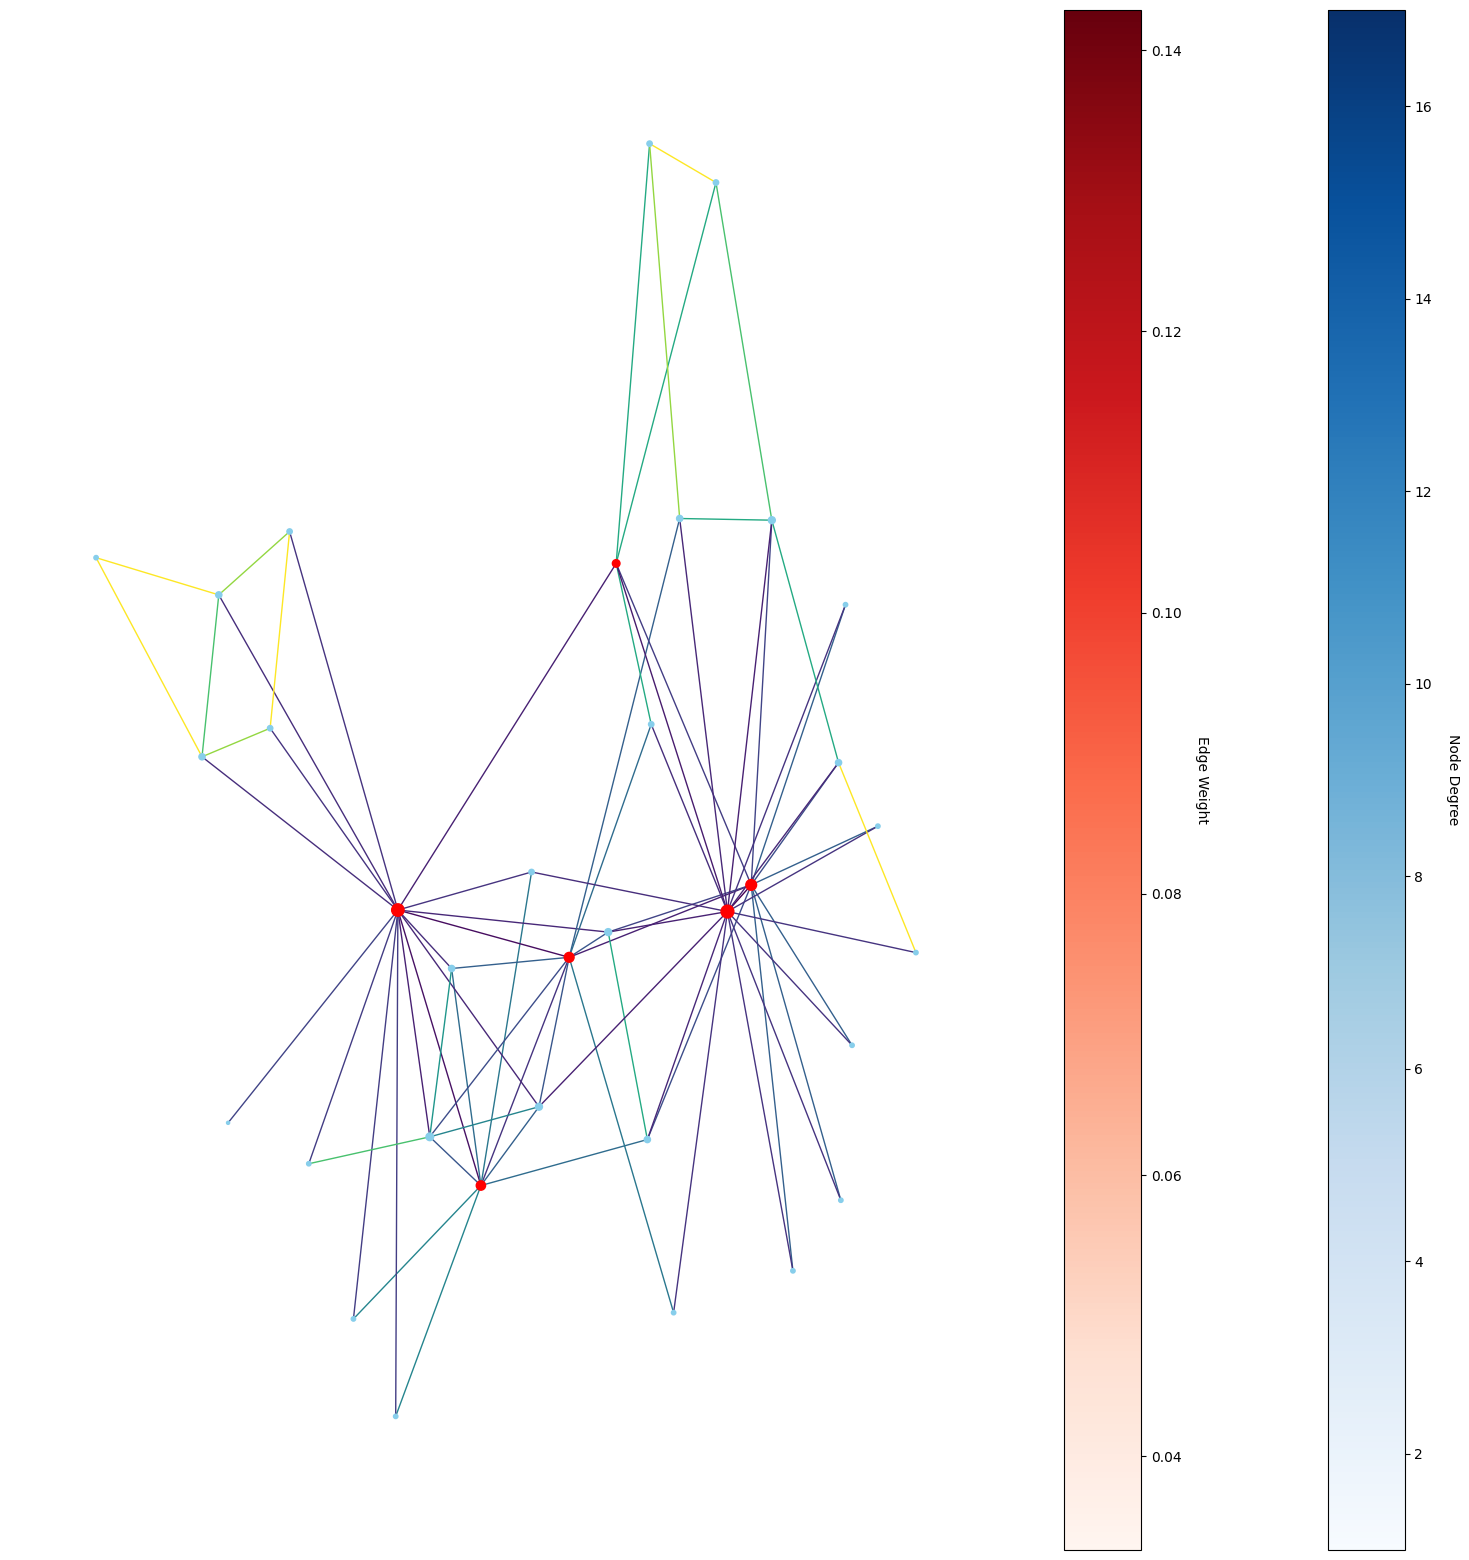
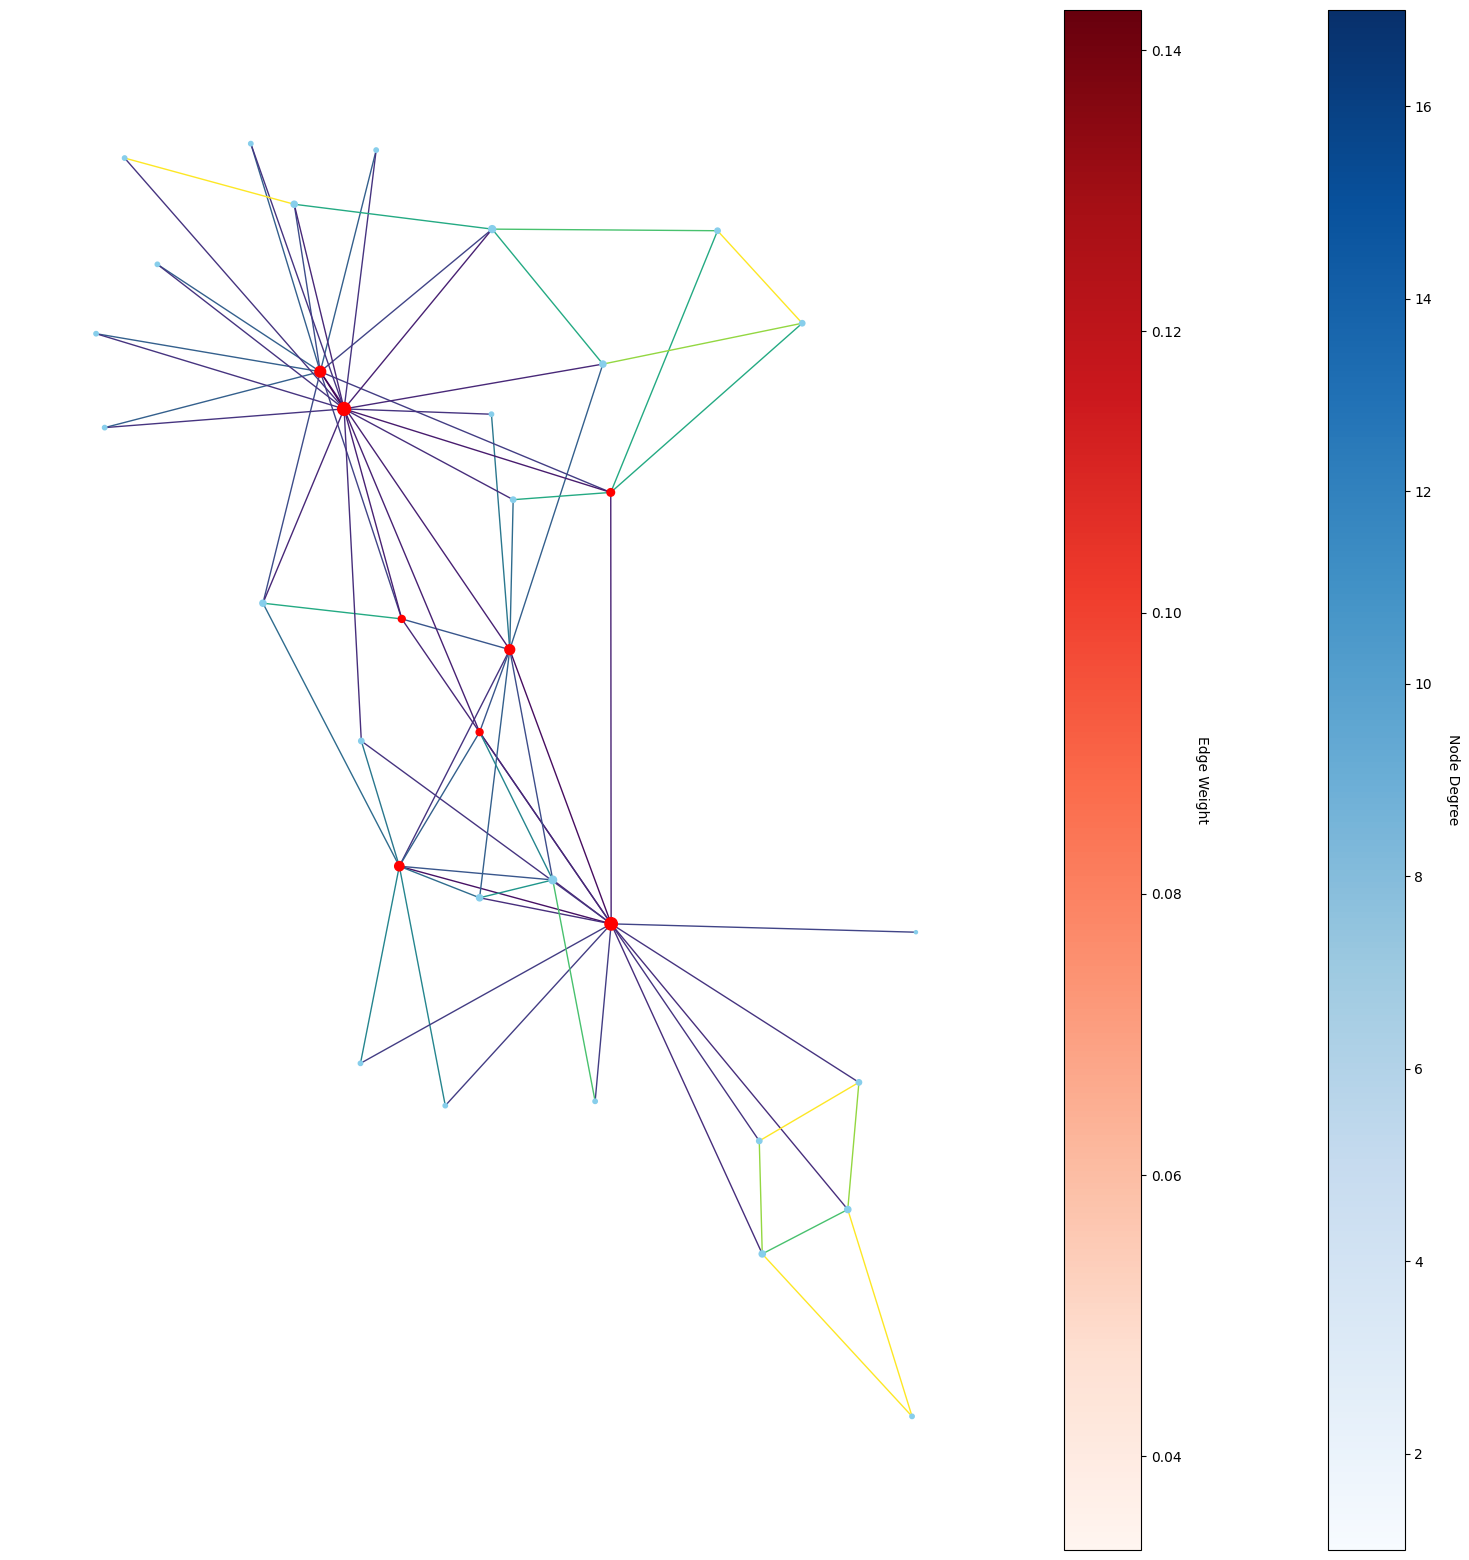
Drawing the Output

diff --git a/Interface/templates/showResult.html b/Interface/templates/showResult.html
@@ -1,14 +1,104 @@
-{% extends "base.html" %}
+{% extends "index.html" %}
 
 {% block content %}
     <h3>Résultat :</h3>
-    <ul style="
-    display: flex;
-    flex-direction: row;
-    flex-wrap: wrap;">
+    <ul style="display: flex; flex-direction: row; flex-wrap: wrap;">
         {% for element in prediction %}
             <li>{{ element }}</li>
         {% endfor %}
         <br>
     </ul>
+    <div id="network-container"></div>
+    <script src="https://d3js.org/d3.v6.min.js"></script>
+    <script>
+        const nodes = JSON.parse('{{ nodes|safe }}');
+        const links = JSON.parse('{{ links|safe }}');
+
+        // Specify the dimensions of the chart.
+        const width = 1000;
+        const height = 600;
+
+        // Specify the color scale.
+        const color = d3.scaleOrdinal(d3.schemeCategory10);
+
+        // Create a simulation with several forces.
+        const simulation = d3.forceSimulation(nodes)
+            .force("link", d3.forceLink(links).id(d => d.id))
+            .force("charge", d3.forceManyBody())
+            .force("center", d3.forceCenter(width / 2, height / 2))
+            .on("tick", ticked);
+
+        // Create the SVG container.
+        const svg = d3.create("svg")
+            .attr("width", width)
+            .attr("height", height)
+            .attr("viewBox", [0, 0, width, height])
+            .attr("style", "max-width: 100%; height: auto;");
+
+        // Add a line for each link, and a circle for each node.
+        const link = svg.append("g")
+            .attr("stroke", "#999")
+            .attr("stroke-opacity", 0.6)
+            .selectAll()
+            .data(links)
+            .join("line")
+            .attr("stroke-width", d => Math.sqrt(d.value));
+
+        const node = svg.append("g")
+            .attr("stroke", "#fff")
+            .attr("stroke-width", 1.5)
+            .selectAll()
+            .data(nodes)
+            .join("circle")
+            .attr("r", 5)
+            .attr("fill", d => color(d.group));
+
+        node.append("title")
+            .text(d => d.id);
+
+        // Add a drag behavior.
+        node.call(d3.drag()
+            .on("start", dragstarted)
+            .on("drag", dragged)
+            .on("end", dragended));
+
+        // Set the position attributes of links and nodes each time the simulation ticks.
+        function ticked() {
+            link
+                .attr("x1", d => d.source.x)
+                .attr("y1", d => d.source.y)
+                .attr("x2", d => d.target.x)
+                .attr("y2", d => d.target.y);
+
+            node
+                .attr("cx", d => d.x)
+                .attr("cy", d => d.y);
+        }
+
+        // Reheat the simulation when drag starts, and fix the subject position.
+        function dragstarted(event) {
+            if (!event.active) simulation.alphaTarget(0.3).restart();
+            event.subject.fx = event.subject.x;
+            event.subject.fy = event.subject.y;
+        }
+
+        // Update the subject (dragged node) position during drag.
+        function dragged(event) {
+            event.subject.fx = event.x;
+            event.subject.fy = event.y;
+        }
+
+        // Restore the target alpha so the simulation cools after dragging ends.
+        // Unfix the subject position now that it's no longer being dragged.
+        function dragended(event) {
+            if (!event.active) simulation.alphaTarget(0);
+            event.subject.fx = null;
+            event.subject.fy = null;
+        }
+
+        // Append the SVG element to the network-container div
+        d3.select("#network-container")
+            .node()
+            .appendChild(svg.node());
+    </script>
 {% endblock %}

diff --git a/Interface/templates/base.html b/Interface/templates/base.html
@@ -6,6 +6,7 @@
     <meta name="viewport" content="width=device-width, initial-scale=1.0">
     <title>{% block title %}Application Web{% endblock %}</title>
     <link rel="stylesheet" href="{% static 'CSS/new.css' %}">
+    <!-- <script src="https://d3js.org/d3.v6.min.js"></script> -->
 </head>
 <body>
     <!-- <div class="overlay"></div> -->

diff --git a/Interface/loginpage/views.py b/Interface/loginpage/views.py
@@ -1,3 +1,4 @@
+import json
 from django.shortcuts import render, redirect
 from django.http import HttpResponse
 import joblib
@@ -13,7 +14,12 @@ import networkx as nx
 from .Models.NeuralNetwrok import NeuralNetwork
 from .Models.DecisionTree import DecisionTreeModel
 from django.contrib.staticfiles.finders import find
-import matplotlib.pyplot as plt
+# import matplotlib
+# matplotlib.use('Agg')  # Use a non-interactive backend
+# import matplotlib.pyplot as plt
+# from io import BytesIO
+import base64
+import plotly.graph_objects as go
 
 # from django.conf import settings
 # from django.templatetags.static import static
@@ -21,6 +27,7 @@ def base(request):
     return render(request,'base.html')
 def home(request):
     return render(request,'new.html')
+
 
 def DrawGraph(data, node_list):
     """Get the Graph from the input data"""
@@ -32,36 +39,65 @@ def DrawGraph(data, node_list):
     edge_weights = {(u, v): 1 / (1 + G.degree(u) + G.degree(v)) for u, v in G.edges()}
 
     # Set node colors based on degree and node list
-    node_colors = []
+    node_colors = ['red' if node in node_list else 'skyblue' for node in G.nodes()]
+    pos = nx.spring_layout(G)
+    # Create Plotly graph
+    edge_x = []
+    edge_y = []
+    for edge in G.edges():
+        x0, y0 = G.nodes[edge[0]]['pos']
+        x1, y1 = G.nodes[edge[1]]['pos']
+        edge_x.extend([x0, x1, None])
+        edge_y.extend([y0, y1, None])
+
+    edge_trace = go.Scatter(
+        x=edge_x, y=edge_y,
+        line=dict(width=0.5, color='#888'),
+        hoverinfo='none',
+        mode='lines')
+    node_x = []
+    node_y = []
     for node in G.nodes():
-        if node in node_list:
-            node_colors.append('red')  # Nodes in the list are red
-        else:
-            node_colors.append('skyblue')  # Other nodes are blue
+        node_x.append(pos[node][0])
+        node_y.append(pos[node][1])
 
-    # Set edge colors based on weight
-    edge_colors = [edge_weights[(u, v)] for u, v in G.edges()]
+    node_trace = go.Scatter(
+        x=node_x, y=node_y,
+        mode='markers',
+        hoverinfo='text',
+        marker=dict(
+            showscale=True,
+            colorscale='Blues',
+            reversescale=True,
+            color=[],
+            size=[v*5 for v in degrees.values()],
+            colorbar=dict(
+                thickness=15,
+                title='Node Degree',
+                xanchor='left',
+                titleside='right'
+            ),
+            line_width=2))
 
-    # Draw the graph
-    fig, ax = plt.subplots(figsize=(20, 20))
-    nx.draw(G, pos=nx.spring_layout(G, k=0.15, iterations=50), node_color=node_colors, edge_color=edge_colors, node_size=[v*5 for v in degrees.values()], with_labels=False, ax=ax)
+    node_trace.marker.color = list(degrees.values())
 
-    # Set colorbar for node degrees
-    sm = plt.cm.ScalarMappable(cmap='Blues', norm=plt.Normalize(vmin=min(degrees.values()), vmax=max(degrees.values())))
-    sm.set_array([])
-    cbar = fig.colorbar(sm, ax=ax)
-    cbar.set_label('Node Degree', rotation=270, labelpad=20)
+    fig = go.Figure(data=[edge_trace, node_trace],
+                    layout=go.Layout(
+                        showlegend=False,
+                        hovermode='closest',
+                        title="Network Graph",
+                        margin=dict(b=20, l=5, r=5, t=40),
+                        annotations=[dict(
+                            text="",
+                            showarrow=False,
+                            xref="paper", yref="paper",
+                            x=0.005, y=-0.002)],
+                        xaxis=dict(showgrid=False, zeroline=False, showticklabels=False),
+                        yaxis=dict(showgrid=False, zeroline=False, showticklabels=False))
+                    )
 
-    # Set colorbar for edge weights
-    sm = plt.cm.ScalarMappable(cmap='Reds', norm=plt.Normalize(vmin=min(edge_weights.values()), vmax=max(edge_weights.values())))
-    sm.set_array([])
-    cbar = fig.colorbar(sm, ax=ax)
-    cbar.set_label('Edge Weight', rotation=270, labelpad=20)
-    # Save the figure to a file
-    plt.savefig("image.png", bbox_inches='tight')
+    return fig.to_json()
 
-    # Close the figure to free up memory
-    plt.close(fig)
 
 
 def getData(data):
@@ -74,7 +110,12 @@ def getData(data):
     betweenness = nx.betweenness_centrality(graph)
 
     """Calculate the nodes"""
-    nodes = graph.nodes()
+    nodes = [{'id': node, **data} for node, data in graph.nodes(data=True)]
+    links = [{'source': source, 'target': target, **data} for source, target, data in graph.edges(data=True)]
+
+    # Convert the data to JSON strings
+    nodes_json = json.dumps(nodes)
+    links_json = json.dumps(links)
     """Drawing the graph"""
     # DrawGraph(graph)
     """Transform the data into a numpy array"""
@@ -83,8 +124,24 @@ def getData(data):
         included = [n,d,c,b]
         Data.loc[len(Data)] = included
     
-    return Data
+    return Data, nodes_json, links_json
+# def get_network_image(data, node_list):
 
+#     # Generate the graph image
+#     fig, _= plt.subplots(figsize=(20, 20))
+#     buffer = BytesIO()
+#     DrawGraph(data, node_list)
+#     fig.savefig(buffer, format='jpeg')
+#     buffer.seek(0)
+#     image_png = buffer.getvalue()
+#     buffer.close()
+#     plt.close(fig)
+#     # Encode the image data as a base64 string
+#     image_base64 = base64.b64encode(image_png).decode('utf-8')
+
+#     print(image_base64[-1])
+#     # Pass the image data to the template
+#     return image_base64
 def predict(data, model_name):
     nodes = data.iloc[:, 0]
     X = data.iloc[:,1:].values
@@ -127,14 +184,18 @@ def generate_neural_network_pdf(result):
     return response
 def traiter(request):
     if request.method == 'POST' and request.FILES['file']:
+        print("DEbut")
         csv_file = request.FILES['file']
         data = pd.read_csv(csv_file, names=["source", "target"], sep=' ', usecols=[0,1])
-        traitement_data = getData(data)
+        traitement_data, nodes, links = getData(data)
         result = predict(traitement_data, request.POST['model'])
-        DrawGraph(data, result)
+        # json = DrawGraph(data, result)
         context = {
+            "nodes":nodes,
+            "links":links,
             "prediction":result
         }
+        print("i'm here")
         # return generate_neural_network_pdf(result)
     return render(request, 'showResult.html', context)
 
